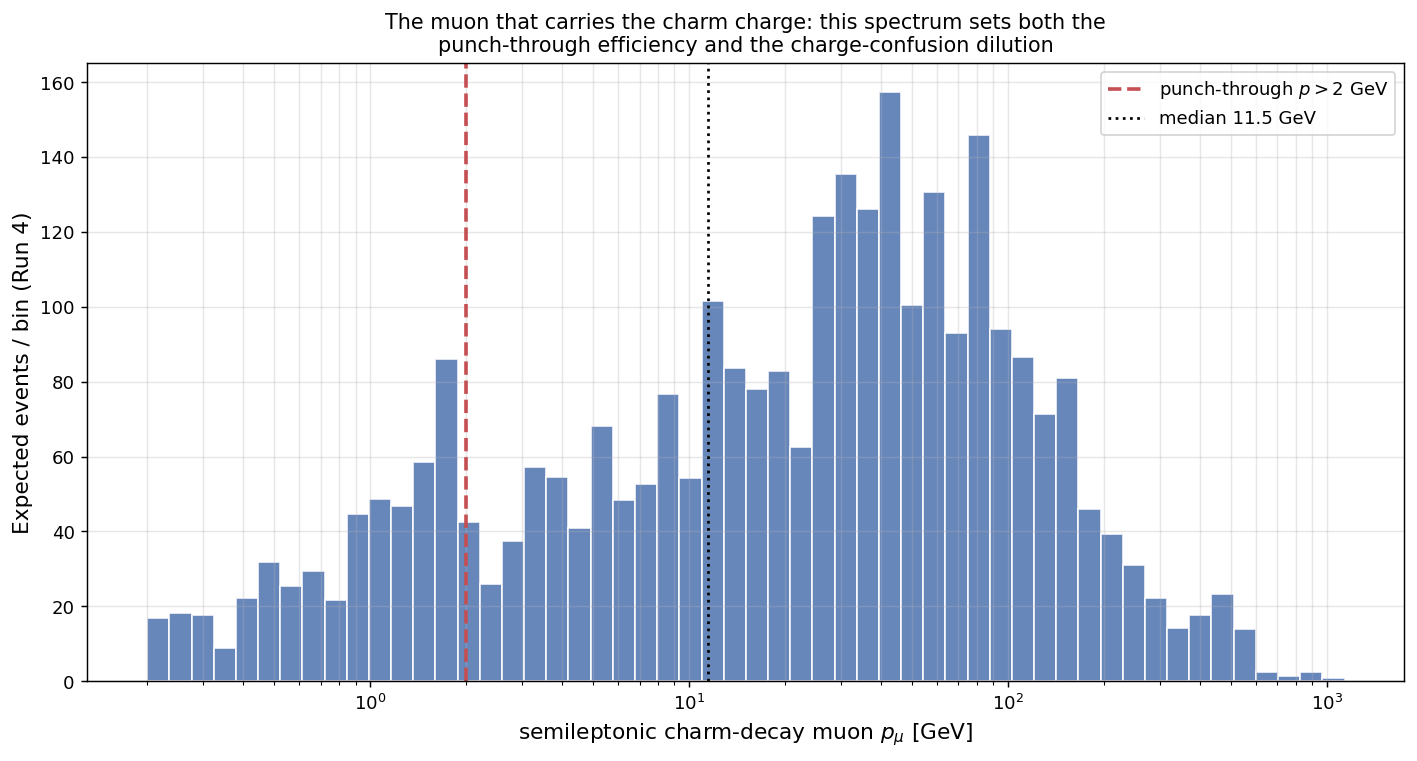
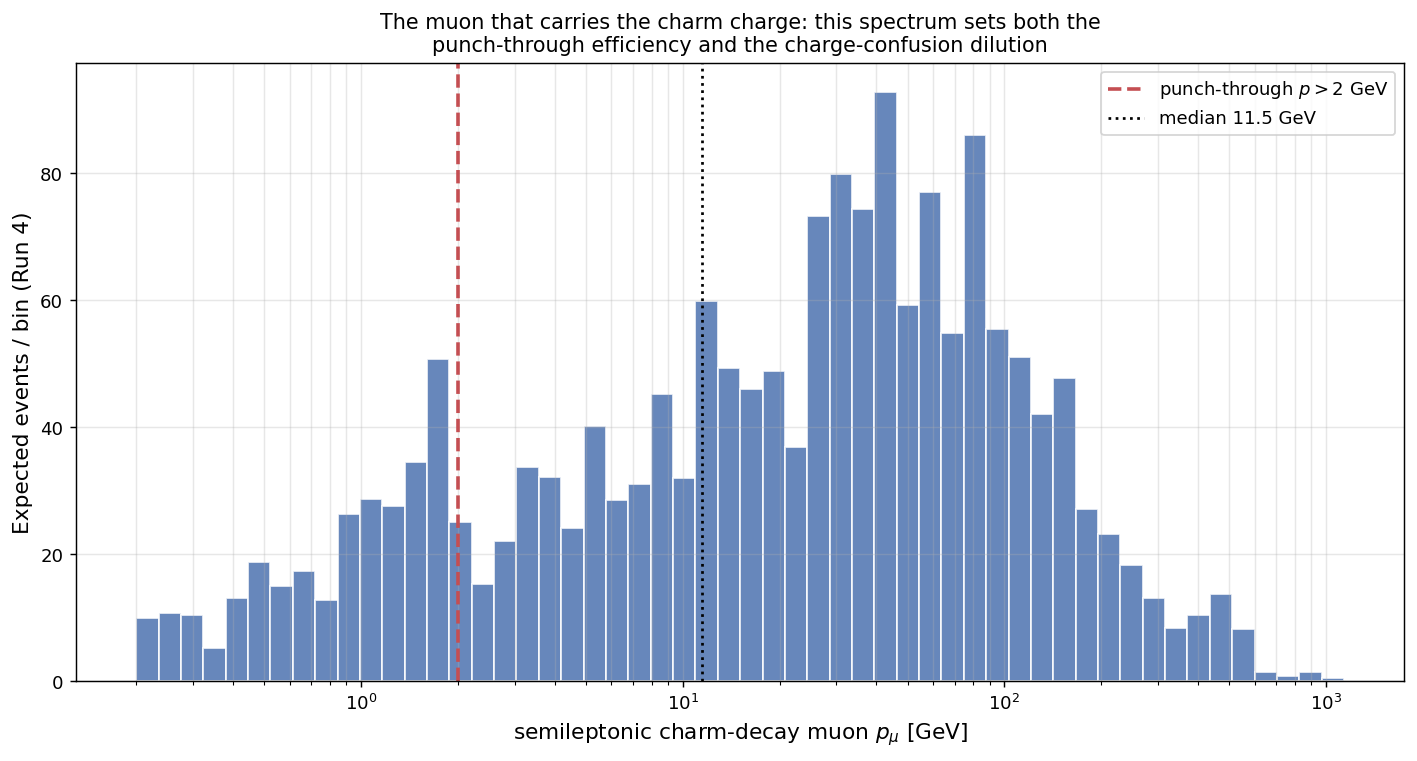
Use the AS-DESIGNED FASERCal geometry from the Bern CM talk
The Bern collaboration-meeting talk (FASERCal, 15 July 2026) supplies the
numbers that were previously assumptions. Several corrections follow.

1. TUNGSTEN IS PER MODULE, NOT PER LAYER. Slide 39 is explicit: '1mm per
   module, i.e. every 20 scintillator layers'. The previous geometry put W
   between every 1 cm layer, over-estimating the absorber by 10x and the total
   3DCAL mass by 5-10x:
       W_5mm  7.11 t assumed -> 0.692 t actual
       W_1mm  2.68 t assumed -> 0.514 t actual
   Computed X0 for the 5 mm option (19.1) reproduces the quoted 18.3.

2. GEOMETRY: 10 modules x 20 layers of 1 cm^3 cubes, 48x48 cm face, 200 cm of
   scintillator; nominal mass is now the designed 0.514 t (1 mm option, the
   FASERCal baseline), not an assumed 1 t.

3. POSITION: detector tilted 4.5 deg and shifted from the LoS by (452, 236) mm.
   Evaluating the FLUKA map at that exact window gives F_flux = 0.96-1.00 on the
   +X side and 1.84-2.02 on the -X side. The sign convention between the
   FASERCal CAD X and the FLUKA ntuple X is NOT yet established, and it is worth
   a factor 2 -- flagged, not guessed.

4. LUMINOSITY: switched to 780 fb^-1, which is what FASERCal itself quotes
   throughout the talk (and matches the TP margin note), instead of the TP's
   printed 680.

5. SPECTROMETER ACCEPTANCE CONFIRMED: slide 33 reports leading muons from 3DCAL
   interactions crossing >=2 MuSpect stations 43%, >=3 36%, 4 stations 31%. The
[…]

Changed region(s): [[0.0932, 0.0, 0.8694, 0.9974], [0.0311, 0.0907, 0.0621, 0.9067], [0.9315, 0.9067, 0.9626, 0.9369]]

diff --git a/python/geometry.py b/python/geometry.py
@@ -1,92 +1,93 @@
 """
-FASERcal geometry / material model for the tungsten-absorber scenarios.
+FASERCal 3DCAL geometry / material model — AS DESIGNED.
 
-Scenario: FASERcal is a sampling structure of N layers, each
-    [ d_scint cm plastic scintillator | t_W cm tungsten absorber ]
-inside a FIXED detector envelope of length L (the trench space constraint,
-Run 4 TP Sec. 3.1).  Adding tungsten therefore DISPLACES scintillator rather
-than extending the detector -- this is the physically constrained comparison.
-The alternative (fixed scintillator, detector grows) is reported as a variant.
+Source: "FASERCal", FASER Collaboration Meeting, Bern, 15 July 2026
+(FASERCal_simulation_BernFaserCM_15July2026.pdf), slides 4, 11, 12, 39.
 
-Three competing effects as t_W increases:
+    3DCAL: 10 modules, each with 20 layers of 1 cm^3 scintillating cubes and
+           1 mm OR 5 mm of tungsten PER MODULE (slide 39 is explicit: "1mm per
+           module, i.e. every 20 scintillator layers").
+           Module face 480 x 480 mm (slide 11).
+           Quoted totals: 18.3 X0, 4.8 lambda_int.
+    Position: detector placed parallel to the tunnel wall, tilted 4.5 degrees,
+           shifted from the LoS by 452 mm in X and 236 mm in Y (slides 11, 12, 31).
 
-  (+) TARGET MASS.  Tungsten is ~19x denser, so even thin plates dominate the
-      nucleon count -> many more muon-DIS interactions.
-  (-) MULTIPLE SCATTERING.  X0(W) = 3.5 mm, so the charm-decay muon is angularly
-      smeared on its way out.  Since acceptance into the spectrometer is an
-      ANGULAR problem (see TECHNOTE_chain.md Sec. 9), this directly eats the
-      signal.
-  (-) ENERGY LOSS.  ~22 MeV/cm in W raises the punch-through threshold.
+>>> CORRECTION vs the previous version of this module <<<
+An earlier version put the tungsten between EVERY 1 cm scintillator layer, which
+over-estimated the tungsten by a factor 10 (and the total 3DCAL mass by 5-10x).
+The absorber is per MODULE, i.e. every 20 layers.  Correct totals:
 
-There is therefore an optimum absorber thickness, which this module lets the
-analysis find rather than assume.
+    1 mm W/module : 1.0 cm W total -> 0.470 t scint + 0.044 t W = 0.514 t
+    5 mm W/module : 5.0 cm W total -> 0.470 t scint + 0.222 t W = 0.692 t
+
+The computed X0 for the 5 mm option (19.1) reproduces the quoted 18.3; the
+computed lambda_int (3.0) is below the quoted 4.8, presumably because the talk's
+figure includes mechanics/frames not modelled here.  Flagged, not fudged.
 
 Material constants (PDG):
-  tungsten      X0 = 3.504 g/cm^2 -> 0.350 cm ; dE/dx ~ 22.1 MeV/cm ; lambda_I 9.95 cm
-  polystyrene   X0 = 43.79 g/cm^2 -> 41.3 cm  ; dE/dx ~ 1.97 MeV/cm ; lambda_I 80 cm
+  tungsten      X0 = 0.350 cm ; dE/dx ~ 22.1 MeV/cm ; lambda_I  9.95 cm
+  polystyrene   X0 = 41.3 cm  ; dE/dx ~  1.97 MeV/cm ; lambda_I 80.0 cm
 """
 import numpy as np
 
-RHO_W,     X0_W,     DEDX_W,     LAMBDA_W = 19.30, 0.3504, 22.1, 9.95
-RHO_SC,    X0_SC,    DEDX_SC,    LAMBDA_SC = 1.02, 41.3,   1.97, 80.0
+RHO_W,  X0_W,  DEDX_W,  LAMBDA_W = 19.30, 0.3504, 22.1, 9.95
+RHO_SC, X0_SC, DEDX_SC, LAMBDA_SC = 1.02, 41.3, 1.97, 80.0
 
-# Detector envelope.  TP Sec. 6.2 (3DCAL) is an empty placeholder, so this is an
-# explicit assumption chosen so the pure-scintillator case gives ~1 t, matching
-# the TP benchmark target mass and the baseline of TECHNOTE_chain.md.
-AREA_CM2   = 1.0e4    # 1 m^2 transverse
-LENGTH_CM  = 100.0    # 1 m longitudinal envelope
-D_SCINT_CM = 1.0      # scintillator thickness per layer
+# ---- 3DCAL as designed -----------------------------------------------------
+FACE_CM = 48.0            # 480 mm module face
+N_MODULES = 10
+LAYERS_PER_MODULE = 20
+CUBE_CM = 1.0             # 1 cm^3 scintillating cubes
+
+# Position of the detector relative to the nominal line of sight (mm)
+LOS_SHIFT_X_MM = 452.0
+LOS_SHIFT_Y_MM = 236.0
+TILT_DEG = 4.5
+
+AREA_CM2 = FACE_CM ** 2                                   # 2304 cm^2
+LEN_SCINT_CM = N_MODULES * LAYERS_PER_MODULE * CUBE_CM    # 200 cm
 
 
-def configure(t_w_cm, area_cm2=AREA_CM2, length_cm=LENGTH_CM,
-              d_scint_cm=D_SCINT_CM, fixed_envelope=True):
+def configure(t_w_cm, area_cm2=AREA_CM2, n_modules=N_MODULES,
+              layers_per_module=LAYERS_PER_MODULE, cube_cm=CUBE_CM):
     """
-    Return the material budget for an absorber thickness t_w_cm per layer.
+    Material budget for `t_w_cm` of tungsten PER MODULE (not per layer).
 
-    fixed_envelope=True : total length is fixed, tungsten displaces scintillator
-    fixed_envelope=False: scintillator is fixed, the detector grows
+    t_w_cm = 0.1 -> the 1 mm option ; 0.5 -> the 5 mm option ; 0.0 -> no absorber.
     """
-    pitch = d_scint_cm + t_w_cm
-    if fixed_envelope:
-        n_layers = length_cm / pitch
-        len_sc = n_layers * d_scint_cm
-        len_w = n_layers * t_w_cm
-        total_len = length_cm
-    else:
-        n_layers = length_cm / d_scint_cm
-        len_sc = length_cm
-        len_w = n_layers * t_w_cm
-        total_len = len_sc + len_w
+    len_sc = n_modules * layers_per_module * cube_cm
+    len_w = n_modules * t_w_cm
 
     m_sc = area_cm2 * len_sc * RHO_SC / 1.0e6      # tonnes
     m_w = area_cm2 * len_w * RHO_W / 1.0e6
 
-    # A muon produced uniformly along the detector traverses, on average, half
-    # of the remaining material.
+    # a muon produced uniformly along the detector traverses, on average, half
+    # of the remaining material
     x0_mean = 0.5 * (len_w / X0_W + len_sc / X0_SC)
     dedx_mean_mev = 0.5 * (len_w * DEDX_W + len_sc * DEDX_SC)
     lam_total = len_w / LAMBDA_W + len_sc / LAMBDA_SC
+    x0_total = len_w / X0_W + len_sc / X0_SC
 
     return dict(
-        t_w_cm=t_w_cm, n_layers=n_layers, total_len_cm=total_len,
-        len_sc=len_sc, len_w=len_w, m_sc=m_sc, m_w=m_w, m_tot=m_sc + m_w,
-        x0_mean=x0_mean, dedx_mean_mev=dedx_mean_mev, lambda_int=lam_total,
+        t_w_cm=t_w_cm, n_layers=n_modules * layers_per_module,
+        total_len_cm=len_sc + len_w, len_sc=len_sc, len_w=len_w,
+        m_sc=m_sc, m_w=m_w, m_tot=m_sc + m_w,
+        x0_mean=x0_mean, x0_total=x0_total,
+        dedx_mean_mev=dedx_mean_mev, lambda_int=lam_total,
     )
 
 
 def theta_ms(p_gev, x0):
-    """
-    Highland multiple-scattering RMS plane angle [rad] for momentum p after x0
-    radiation lengths.  Returned as the space angle (sqrt(2) x plane angle).
-    """
+    """Highland multiple-scattering RMS space angle [rad] after x0 rad. lengths."""
     p_mev = np.asarray(p_gev, dtype=float) * 1.0e3
     x0 = max(float(x0), 1e-9)
     plane = (13.6 / np.maximum(p_mev, 1e-9)) * np.sqrt(x0) * (1 + 0.038 * np.log(x0))
     return np.sqrt(2.0) * np.maximum(plane, 0.0)
 
 
+# The two absorber options actually under consideration, plus a no-W reference.
 SCENARIOS = {
-    "baseline_no_W": 0.0,
-    "W_1mm":         0.1,
-    "W_5mm":         0.5,
+    "no_W_reference": 0.0,
+    "W_1mm_module":   0.1,
+    "W_5mm_module":   0.5,
 }

diff --git a/python/make_chain_report.py b/python/make_chain_report.py
@@ -59,7 +59,7 @@ def page_cutflow(pdf, d, m):
     ]
     tab = ax.table(cellText=rows,
                    colLabels=[f"FASERcal chain — Run 4, {F.LUMI_RUN4:.0f} fb$^{{-1}}$, "
-                              f"{F.M_FID_T:.1f} t scintillator",
+                              f"{F.M_FID_T:.3f} t 3DCAL",
                               "yield", "fraction"],
                    colWidths=[0.58, 0.21, 0.21], loc="center", cellLoc="left")
     tab.auto_set_font_size(False); tab.set_fontsize(10.5); tab.scale(1, 1.75)
@@ -67,10 +67,12 @@ def page_cutflow(pdf, d, m):
         tab[0, j].set_facecolor("#1f3b57")
         tab[0, j].set_text_props(color="white", fontweight="bold")
     fig.text(0.5, 0.09,
-             "Absolute yields scale LINEARLY with the assumed 1 t fiducial mass and with the "
-             "off-axis flux factor (here on-axis-equivalent).\nOff-axis is NOT necessarily a "
-             "penalty: FLUKA reports the muon rate rising in some directions — see the off-axis "
-             "page.\nThe chain fractions are ratios and are robust against both.",
+             "3DCAL geometry and mass are now the DESIGNED values (Bern CM talk, 15 Jul 2026): "
+             "10 modules x 20 layers of 1 cm cubes, 48x48 cm face, W per module.\n"
+             "Yields scale linearly with the off-axis flux factor; at the designed LoS shift "
+             "(452, 236) mm the FLUKA map gives F_flux = 1.0-2.0 depending on the sign\n"
+             "convention of X, which is not yet resolved. The chain fractions are ratios and "
+             "are robust against both.",
              ha="center", fontsize=9, style="italic")
     ax.set_title("Muon-DIS charm chain in FASERcal (AHCAL excluded)", fontsize=13, pad=16)
     _emit(fig, pdf, "10_chain_cutflow", tight=False)
@@ -253,8 +255,8 @@ def page_tungsten_scenarios(pdf, d, cone):
     axb.tick_params(axis="y", colors="#c44e52")
     ax2.set_title(r"Yield tracks mass; $\sigma(A_c)$ improves as $1/\sqrt{N}$",
                   fontsize=11.5)
-    fig.suptitle("Tungsten absorber scenarios — fixed 1 m envelope, "
-                 "W displaces scintillator", fontsize=12.5)
+    fig.suptitle("Tungsten absorber options as designed — 10 modules x 20 layers, "
+                 "W per module", fontsize=12.5)
     _emit(fig, pdf, "16_tungsten_scenarios")
 
     # ---- companion table page ----
@@ -292,7 +294,7 @@ def page_tungsten_scenarios(pdf, d, cone):
 def page_tungsten_scan(pdf, d, cone):
     """Is there an optimum absorber thickness?"""
     import geometry as G
-    tw = np.concatenate([[0.0], np.logspace(np.log10(0.02), np.log10(3.0), 26)])
+    tw = np.concatenate([[0.0], np.logspace(np.log10(0.02), np.log10(2.0), 26)])
     res = [F.chain_scenario(d, float(t), cone=cone) for t in tw]
     tag = np.array([r["n_tag"] for r in res])
     facc = np.array([100 * r["f_acc"] for r in res])
@@ -303,13 +305,13 @@ def page_tungsten_scan(pdf, d, cone):
     for nm, t in G.SCENARIOS.items():
         m = F.chain_scenario(d, t, cone=cone)
         ax1.plot(t * 10, m["n_tag"], "o", ms=10, label=nm.replace("_", " "))
-    ax1.set_xlabel("tungsten per layer [mm]", fontsize=11)
+    ax1.set_xlabel("tungsten per module [mm]", fontsize=11)
     ax1.set_ylabel("tagged charm muons (Run 4)", fontsize=11)
     ax1.legend(fontsize=9); ax1.grid(alpha=0.3)
     ax1.set_title("Yield rises monotonically with absorber thickness", fontsize=11.5)
 
     ax2.plot(tw * 10, facc, "-", color="#c44e52", lw=2.2, label="acceptance [%]")
-    ax2.set_xlabel("tungsten per layer [mm]", fontsize=11)
+    ax2.set_xlabel("tungsten per module [mm]", fontsize=11)
     ax2.set_ylabel("spectrometer acceptance [%]", color="#c44e52", fontsize=11)
     ax2.tick_params(axis="y", colors="#c44e52")
     ax2.set_ylim(0, 50); ax2.grid(alpha=0.3)
@@ -318,12 +320,13 @@ def page_tungsten_scan(pdf, d, cone):
     axb.set_ylabel("total mass [t]", color="#4c72b0", fontsize=11)
     axb.tick_params(axis="y", colors="#4c72b0")
     ax2.set_title("The trade-off: mass gain (blue) vs\nacceptance loss (red)", fontsize=11.5)
-    fig.suptitle("Absorber-thickness optimisation — no yield optimum below 3 cm; "
-                 "the limit is calorimetric, not statistical", fontsize=12.5)
+    fig.suptitle("Absorber thickness per MODULE (every 20 layers, as designed) — "
+                 "yield rises monotonically; the limit is calorimetric", fontsize=12.5)
     _emit(fig, pdf, "18_tungsten_scan")
 
 
 def page_offaxis(pdf, d, cone):
+    import geometry as G
     """
     Off-axis flux: the single largest unquantified factor.
 
@@ -337,7 +340,8 @@ def page_offaxis(pdf, d, cone):
     import geometry as G
     ff = np.logspace(np.log10(0.2), np.log10(12.0), 40)
     fig, (ax1, ax2) = plt.subplots(1, 2, figsize=(14, 5.4))
-    cols = {"baseline_no_W": "#4c72b0", "W_1mm": "#dd8452", "W_5mm": "#c44e52"}
+    palette = ["#4c72b0", "#dd8452", "#c44e52"]
+    cols = {nm: palette[i % 3] for i, nm in enumerate(G.SCENARIOS)}
     for nm, t in G.SCENARIOS.items():
         tag = [F.chain_scenario(d, t, cone=cone, f_flux=float(f))["n_tag"] for f in ff]
         sig = [F.chain_scenario(d, t, cone=cone, f_flux=float(f))["sigma_A"] for f in ff]

diff --git a/python/fasercal_chain.py b/python/fasercal_chain.py
@@ -45,8 +45,11 @@ import numpy as np
 
 # ---------------------------------------------------------------- luminosity
 LUMI_REF   = 250.0     # fb^-1, the normalisation baked into the weights (Run 3)
-LUMI_RUN4  = 680.0     # fb^-1, nominal Run 4 (FASER Run 4 TP, Fig. 1 / Sec. 2.1)
-LUMI_RUN4_ALT = 780.0  # TP margin note "[FK: update to 780]" -- reported as a variant
+# 780 fb^-1 is what the FASERCal team itself quotes for Run 4 nominal
+# (Bern CM talk, 15 July 2026, slides 5/9/14/23/24), and matches the TP margin
+# note "[FK: update to 780]".  Switched from the TP's printed 680.
+LUMI_RUN4  = 780.0     # fb^-1, Run 4 nominal as used by FASERCal
+LUMI_RUN4_TP = 680.0   # the value printed in the Run 4 TP v0.01
 
 # ------------------------------------------------------------ target material
 # Per-nucleon samples are recombined with the proton fraction of the target.
@@ -59,11 +62,13 @@ COMPOSITION = {
 }
 
 # ------------------------------------------------------------------- geometry
-# NOMINAL fiducial mass.  Sec. 6.2 (3DCAL) of the Run 4 TP is an empty
-# placeholder, so this is an explicit assumption, chosen equal to the TP
-# benchmark target mass (1 t) so the numbers are directly comparable.
-# EVERY absolute yield scales linearly with this number.
-M_FID_T = 1.0      # tonne, FASERcal 3DCAL fiducial volume (AHCAL excluded)
+# 3DCAL fiducial mass, now the DESIGNED value rather than an assumption
+# (FASERCal Bern CM talk, 15 July 2026, slides 4/11/39):
+#   10 modules x 20 layers of 1 cm^3 cubes, 48 x 48 cm face
+#   -> 0.470 t scintillator, plus 0.044 t (1 mm W/module) or 0.222 t (5 mm)
+# The 1 mm option is the baseline used in the FASERCal simulations and costing,
+# so it is taken as nominal here.  geometry.configure() computes both.
+M_FID_T = 0.514    # tonne, 3DCAL with 1 mm W per module (AHCAL excluded)
 
 # REFERENCE MASS implicit in the flux normalisation.  arXiv:2506.13889 Eq. (2.1)
 # defines the flux as f_mu(x_mu) = n_T L_T dN_mu/dx_mu, i.e. the TUNGSTEN TARGET
@@ -119,12 +124,20 @@ F_FLUX_RANGE = (1.0, 2.0, 3.9, 4.9)   # measured on-axis .. best off-axis
 DEFAULTS = dict(
     # a muon must punch through the remaining calorimeter to reach the magnet
     p_punch_gev=2.0,
-    # geometric+tracking acceptance of the spectrometer: USER-SUPPLIED 40%
-    acc_spectrometer=0.40,
+    # Spectrometer acceptance.  The FASERCal Bern talk (slide 33) reports, for
+    # 3DCAL interactions, leading muons crossing >=2 MuSpect stations 43%,
+    # >=3 stations 36%, 4 stations 31%.  The user-supplied 40% sits right in
+    # that range, so it is CONFIRMED rather than assumed; 0.43 is used as the
+    # >=2-station working point.
+    acc_spectrometer=0.43,
     # charge-confusion model eta(p) = eta0 + (0.5-eta0)*sigmoid((p-p_half)/w)
     eta0=0.005, p_half_gev=1000.0, p_width_gev=300.0,
-    # probability of correctly linking the spectrometer track back to the DIS
-    # vertex through the calorimeter (track-following through 3D voxels)
+    # Probability of correctly linking the spectrometer track back to the DIS
+    # vertex through the calorimeter.  REALITY CHECK: the FASERCal ML charm
+    # tagger (Bern talk slide 24) achieves, for the c->mu channel in neutrino
+    # events, tagging efficiency 0.15 at purity 0.71 -- far below this toy 0.90.
+    # Their number folds in the full ML chain on a harder (neutrino) topology,
+    # so it is not directly transferable, but it shows 0.90 is optimistic.
     eff_link=0.90,
 )
 
@@ -189,7 +202,7 @@ def smeared_theta(d, geo, rng):
 
 
 def chain_scenario(d, t_w_cm, params=None, lumi=LUMI_RUN4, cone=None,
-                   rng=None, fixed_envelope=True, f_flux=F_FLUX):
+                   rng=None, f_flux=F_FLUX):
     """
     Full chain for a sampling geometry with `t_w_cm` tungsten per layer.
 
@@ -201,7 +214,7 @@ def chain_scenario(d, t_w_cm, params=None, lumi=LUMI_RUN4, cone=None,
     import geometry as G
     p = dict(DEFAULTS); p.update(params or {})
     rng = rng or np.random.default_rng(2024)
-    geo = G.configure(t_w_cm, fixed_envelope=fixed_envelope)
+    geo = G.configure(t_w_cm)
 
     # ---- yields per material, correct composition each ----
     w = (yield_per_tonne(d, "scintillator_CH", lumi, f_flux) * geo["m_sc"]
